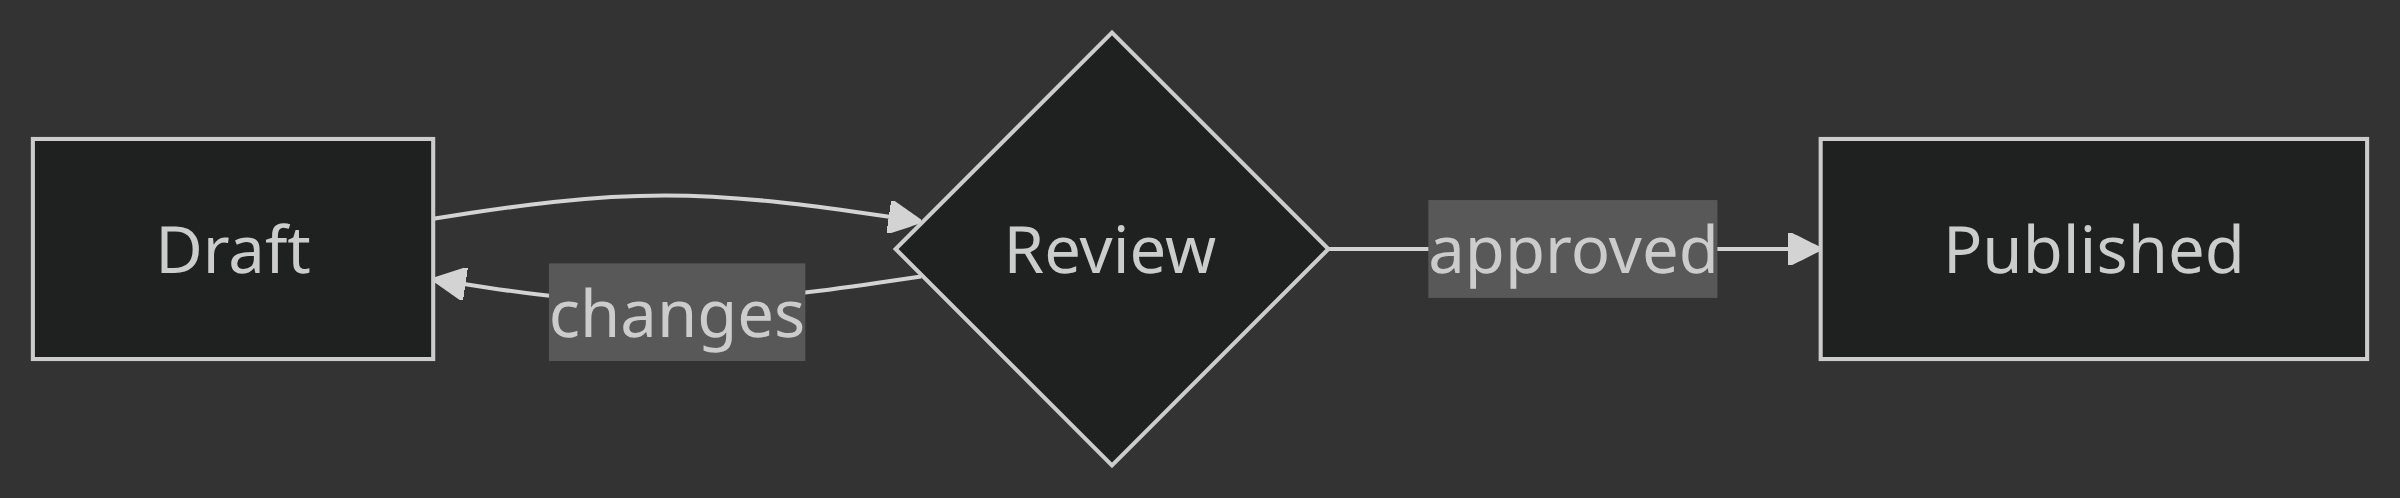
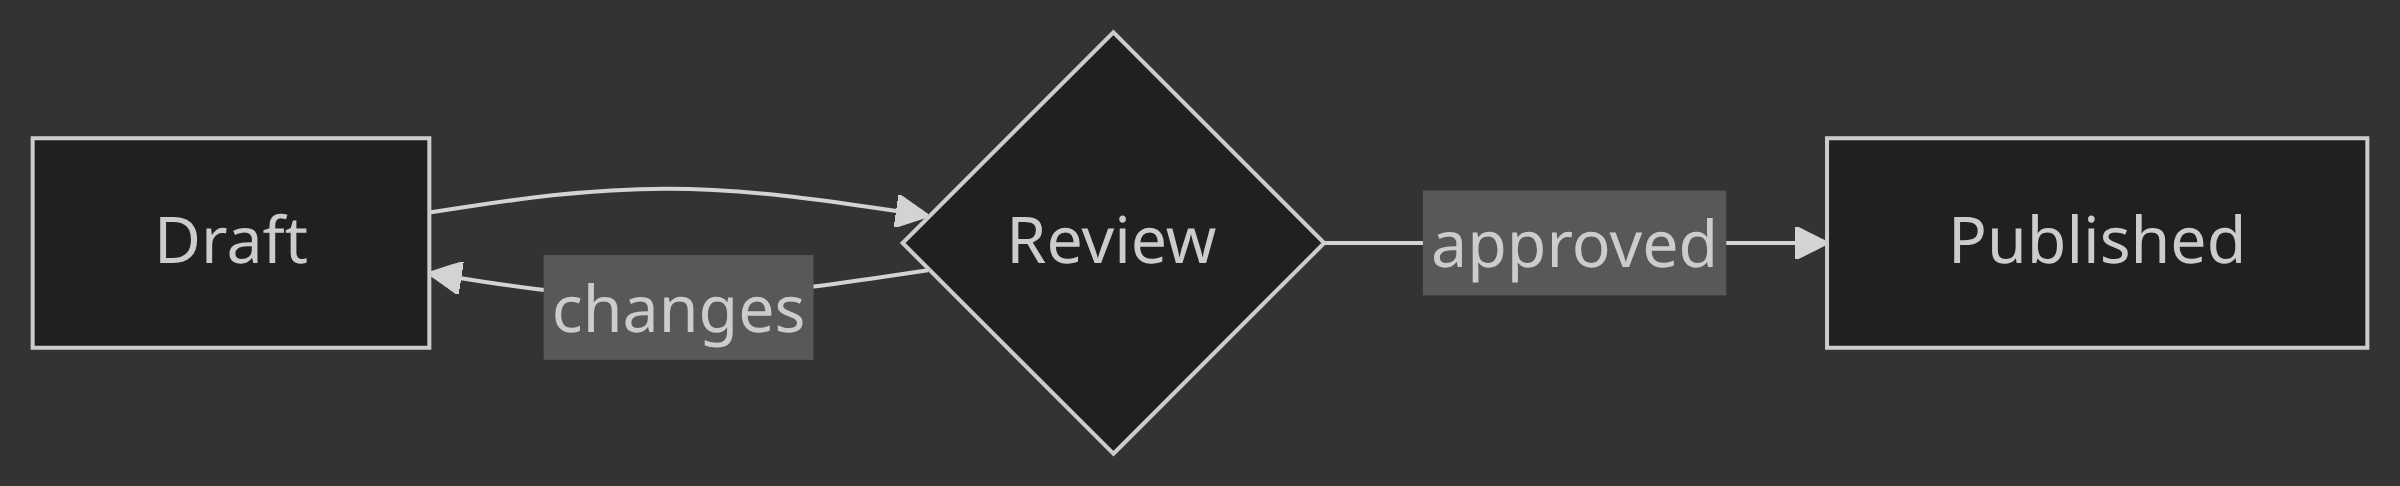
Fix broken EPUB flowcharts: render labels as SVG text (#34)
* Render diagram labels as SVG text

HTML labels put a bare <br> inside <foreignObject>, so every multi-line flowchart shipped to EPUB as SVG no XML parser accepts, and readers that skip <foreignObject> in an <img> would draw empty boxes. Raster formats switch too so a book's formats agree.

themeCSS makes the edge-label rect opaque: without the HTML background, the theme's 0.5 opacity lets edges strike through labels.

* Regenerate samples with SVG-text labels

diff --git a/tests/probe.js b/tests/probe.js
@@ -42,12 +42,15 @@ const VECTOR_FORMATS = ['epub'];
 // The brackets are the test: a title is escaped on the way out, because an
 // unescaped one closes the markdown image early. The word is distinctive so its
 // absence from the render means the title was blanked, not merely unmatched.
+//
+// The line break is the other test: an HTML label serializes it as a bare
+// `<br>`, which breaks the SVG as XML.
 const TITLE = 'Zebra [A] Marmalade';
 const DIAGRAM = `---
 title: ${TITLE}
 ---
 flowchart LR
-  A[Start] --> B[Finish]
+  A["Start<br/>here"] --> B[Finish]
 `;
 
 // The mistake an author actually makes: `theme` is a key inside `init`, not a
@@ -309,6 +312,17 @@ async function main() {
       'the SVG carries a palette keyed to the operating system',
     );
     return painted[0];
+  });
+
+  // A readable assertion, not a parse: node has no XML parser. HTML labels are
+  // the one source of both faults — a void element XML rejects, and a
+  // `<foreignObject>` many readers draw as an empty box.
+  await check('the vector labels are SVG text', () => {
+    expect(svg, 'epub did not render');
+    expect(!svg.includes('<foreignObject'), 'labels are HTML in foreignObject');
+    const unclosed = /<(br|hr|img)\b[^>]*(?<!\/)>/.exec(svg);
+    expect(!unclosed, `unclosed ${unclosed?.[0]} — the SVG is not XML`);
+    return 'no foreignObject, no unclosed void element';
   });
 
   await check('the title is alt text, escaped', () => {

diff --git a/src/server.js b/src/server.js
@@ -103,11 +103,23 @@ const LOOKS = new Set(['classic', 'handDrawn']);
 // larger size produces is then scaled down further. Measured, a 2.8x change in
 // the requested size reached the page as 1.9x, and by a factor that differed per
 // diagram. What decides the size on the page is the width the wrapper gives it.
+//
+// Labels are SVG text in every format. HTML labels sit in `<foreignObject>`,
+// which many EPUB readers leave blank inside an `<img>`, and serialize a
+// `<br>` that no XML parser accepts. Raster formats follow so a book's formats
+// agree.
+//
+// SVG text drops the opaque HTML background an edge label had, and the theme's
+// half-transparent rect then lets the edge show through; `themeCSS` makes it
+// opaque. The `default` theme's fill carries its own alpha, so an edge still
+// shows faintly there.
 function houseStyle() {
   return {
     theme: PROJECT_THEME,
     look: PROJECT_LOOK,
     handDrawnSeed: HAND_DRAWN_SEED,
+    htmlLabels: false,
+    themeCSS: '.edgeLabel rect{opacity:1}',
     themeVariables: { fontFamily: PROJECT_FONT },
   };
 }
